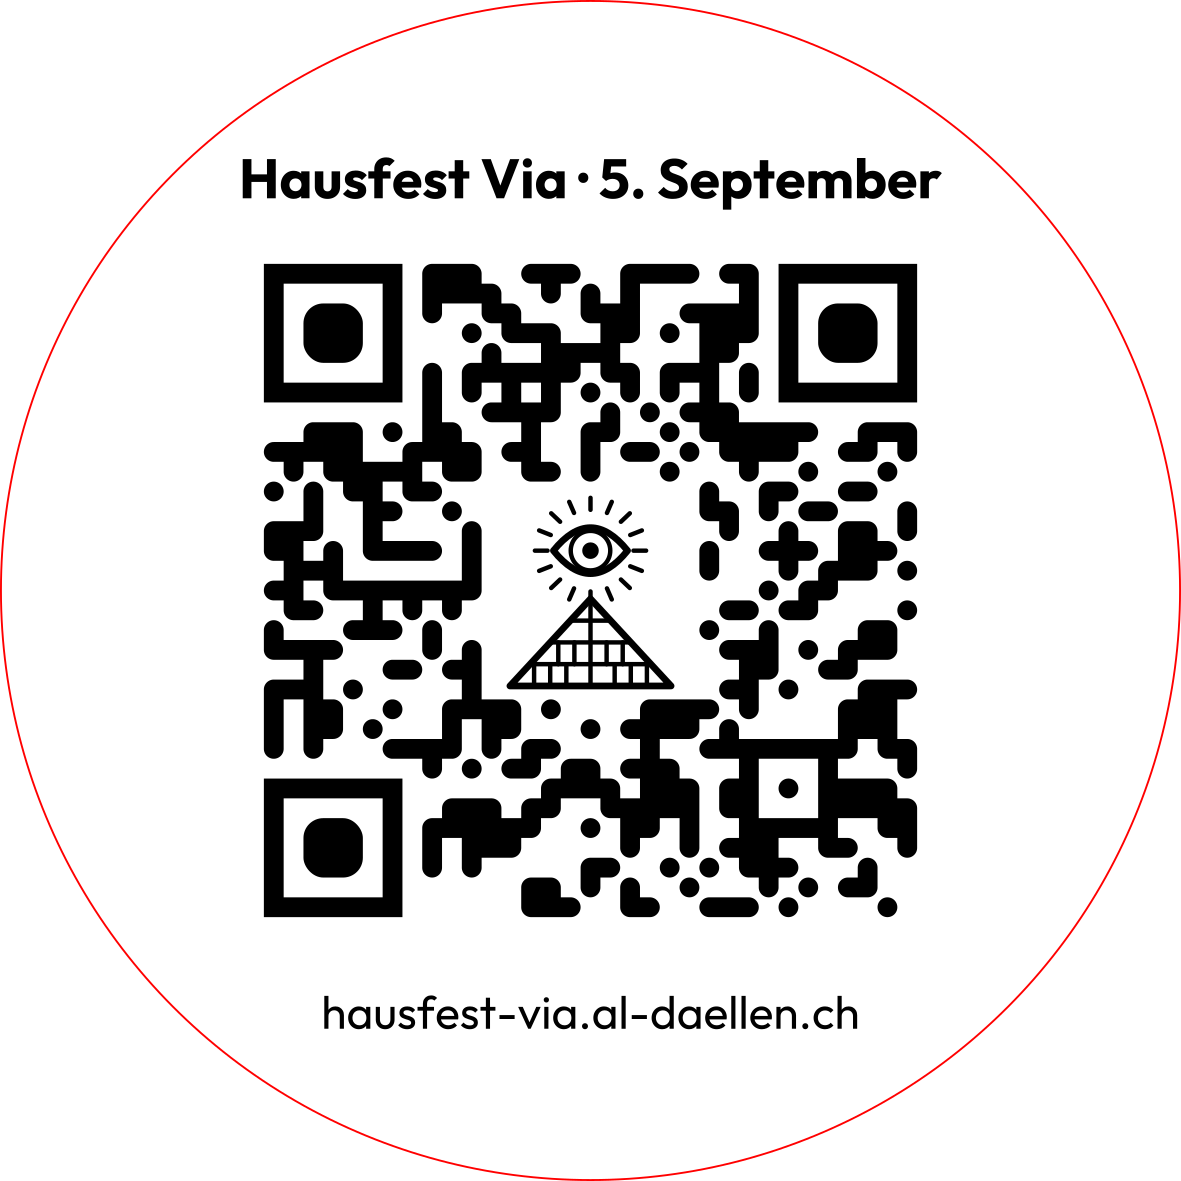
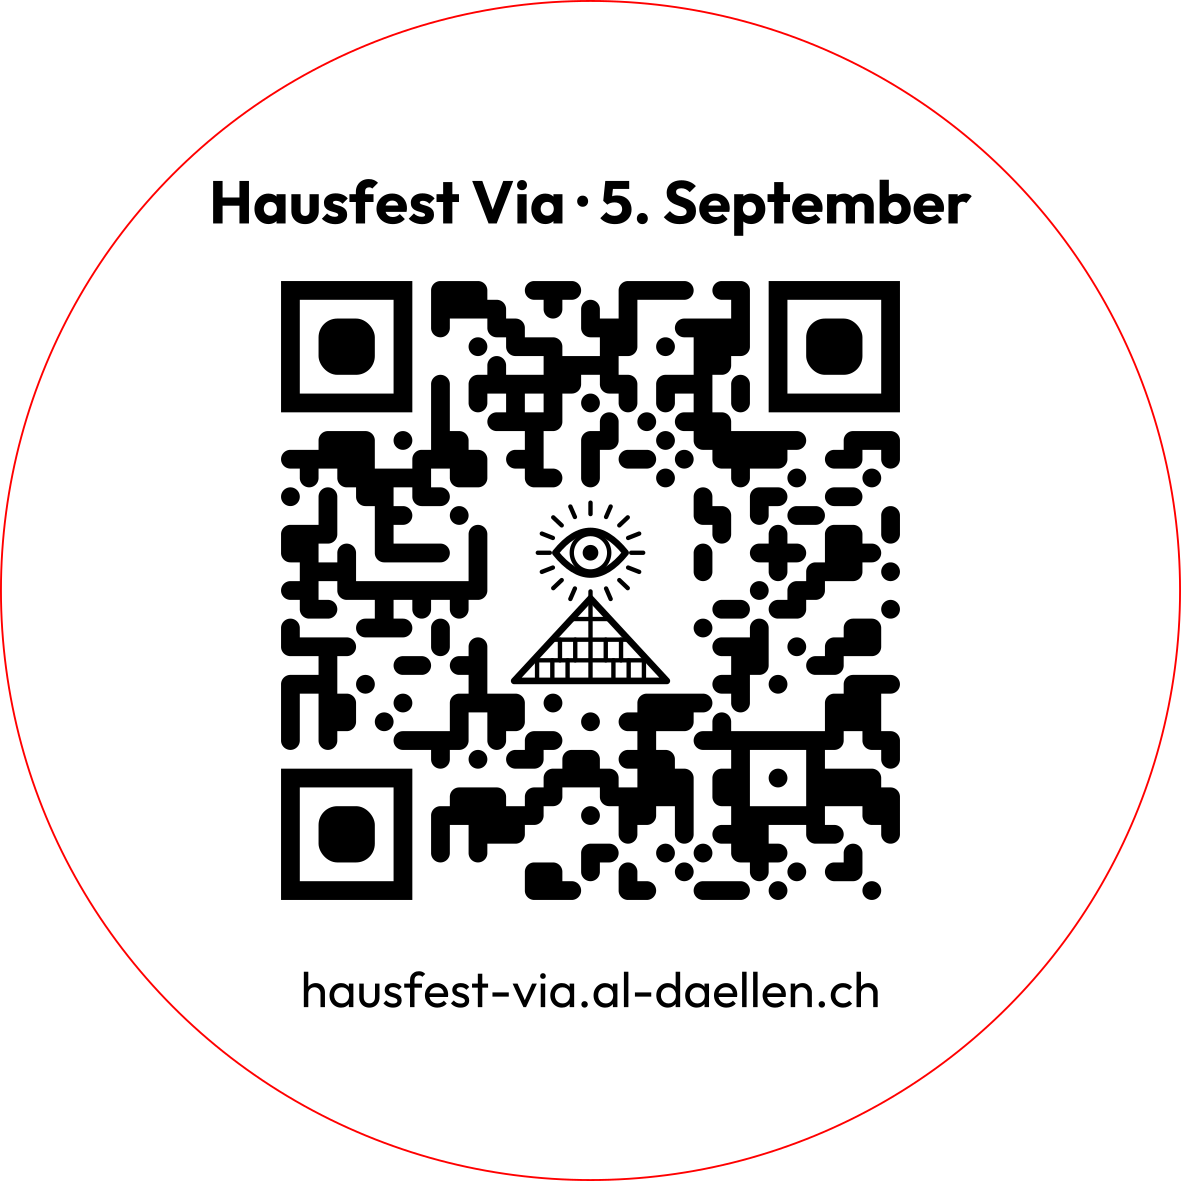
Grössere Schrift auf dem Laser-Anhänger
Titel 2.55 statt 2.35 mm, Link 2.10 statt 1.95 mm, die Scheibe bleibt bei
50 mm. Schrift und QR teilen sich denselben Platz: Jede Zeile drückt den
Code nach innen, weil sie an ihrer Oberkante in die Kreissehne passen
muss. Rand und Luft sind darum knapper gesetzt (0.75 und 0.85 statt 0.9
und 1.1 mm), so trägt die grössere Schrift sich zum Teil selbst.

Bleiben 0.79 statt 0.84 mm pro Modul. Das kostet nichts: Im Test gegen
Brandrand, Maserung und schwachen Kontrast besteht diese Fassung genau
dieselben Fälle wie die frühere. Eine Stufe grösser (2.65) fiel bereits
ein Fall weg — darum dieser Punkt.

Changed region(s): [[0.1829, 0.1219, 0.823, 0.7925], [0.2439, 0.823, 0.7621, 0.884]]

diff --git a/scripts/art/gen_qr.py b/scripts/art/gen_qr.py
@@ -279,11 +279,20 @@ def build(titel: str, dest: pathlib.Path) -> pathlib.Path:
     # begrenzt durch die Zeilen darüber/darunter — eine Zeile darf an ihrer
     # höchsten Stelle nicht breiter sein als die Kreissehne dort — und durch
     # die eigenen Ecken, die im Kreis bleiben müssen.
-    RAND = 0.9                           # Sicherheitsabstand zur Schnittkante
-    LUFT = 1.1                           # Abstand zwischen Zeile und QR
+    RAND = 0.75                          # Sicherheitsabstand zur Schnittkante
+    LUFT = 0.85                          # Abstand zwischen Zeile und QR
     r_safe = R - RAND
 
-    titel_groesse, link_groesse = 2.35, 1.95
+    # Die Schrift kostet den QR Platz: Jede Zeile drückt ihn nach innen, weil
+    # sie an ihrer Oberkante in die Kreissehne passen muss. Darum sind Rand
+    # und Luft knapp gehalten — so trägt die grössere Schrift sich selbst.
+    #
+    # 2.55/2.10 ist der Punkt, an dem die Schrift spürbar wächst, ohne dass
+    # der Code schlechter liest: Im Test gegen Brandrand, Maserung und
+    # schwachen Kontrast besteht diese Fassung mit 0.79 mm pro Modul genau
+    # dieselben Fälle wie die frühere mit 0.84. Eine Stufe grösser (2.65)
+    # fiel bereits ein Fall weg.
+    titel_groesse, link_groesse = 2.55, 2.10
     zeilen = [(bold.width(titel, titel_groesse), titel_groesse),
               (reg.width(LINK_TEXT, link_groesse), link_groesse)]
 

diff --git a/laser/README.md b/laser/README.md
@@ -34,15 +34,22 @@ Die weisse Fläche hinter dem QR ist die Ruhezone. Sie wird **nicht** graviert
 ## Masse
 
 - Scheibe: 50 mm Durchmesser
-- QR: 27.7 mm, 33 × 33 Module, **0.84 mm pro Modul**
+- QR: 26.2 mm, 33 × 33 Module, **0.79 mm pro Modul**
 - Fehlerkorrektur: Stufe H (bis 30 % der Fläche darf beschädigt sein)
 - Die SVG ist in Millimetern angelegt (1 Einheit = 1 mm). Beim Import auf
   100 % skalieren, nicht „einpassen“.
 
 Titel und Link stehen auf gerader Zeile statt auf dem Bogen — das spart
-Platz, und der QR wird dadurch grösser (0.84 statt 0.73 mm pro Modul). Die
+Platz, und der QR wird dadurch grösser (0.79 statt 0.73 mm pro Modul). Die
 Grösse rechnet das Skript aus: Es misst die beiden Textzeilen und gibt dem QR
 alles, was zwischen ihnen noch in den Kreis passt.
+
+Schrift und QR teilen sich also denselben Platz — grössere Schrift heisst
+kleinere Module. Die aktuellen 2.55 mm (Titel) und 2.10 mm (Link) sind der
+Punkt, an dem die Schrift spürbar wächst, ohne dass der Code schlechter
+liest: Im Test gegen Brandrand, Maserung und schwachen Kontrast besteht
+diese Fassung genau dieselben Fälle wie die frühere mit kleinerer Schrift.
+Eine Stufe grösser fiel bereits ein Fall weg.
 
 ## Gestaltung
 
@@ -64,7 +71,7 @@ Punkt anfassen, nicht den Ring.
   der Rest bleibt hell. Ein invertierter Code wird von vielen Scannern nicht
   gelesen.
 - **Nicht zu tief gravieren.** Der Laser trägt breiter ab als die Vektorkante;
-  bei 0.84 mm Modulen laufen die hellen Zwischenräume sonst zu. Lieber
+  bei 0.79 mm Modulen laufen die hellen Zwischenräume sonst zu. Lieber
   schnell und hell als langsam und tief.
 - **Vorher testen.** Ein Probestück gravieren und mit dem Handy scannen,
   bevor die ganze Serie läuft.
